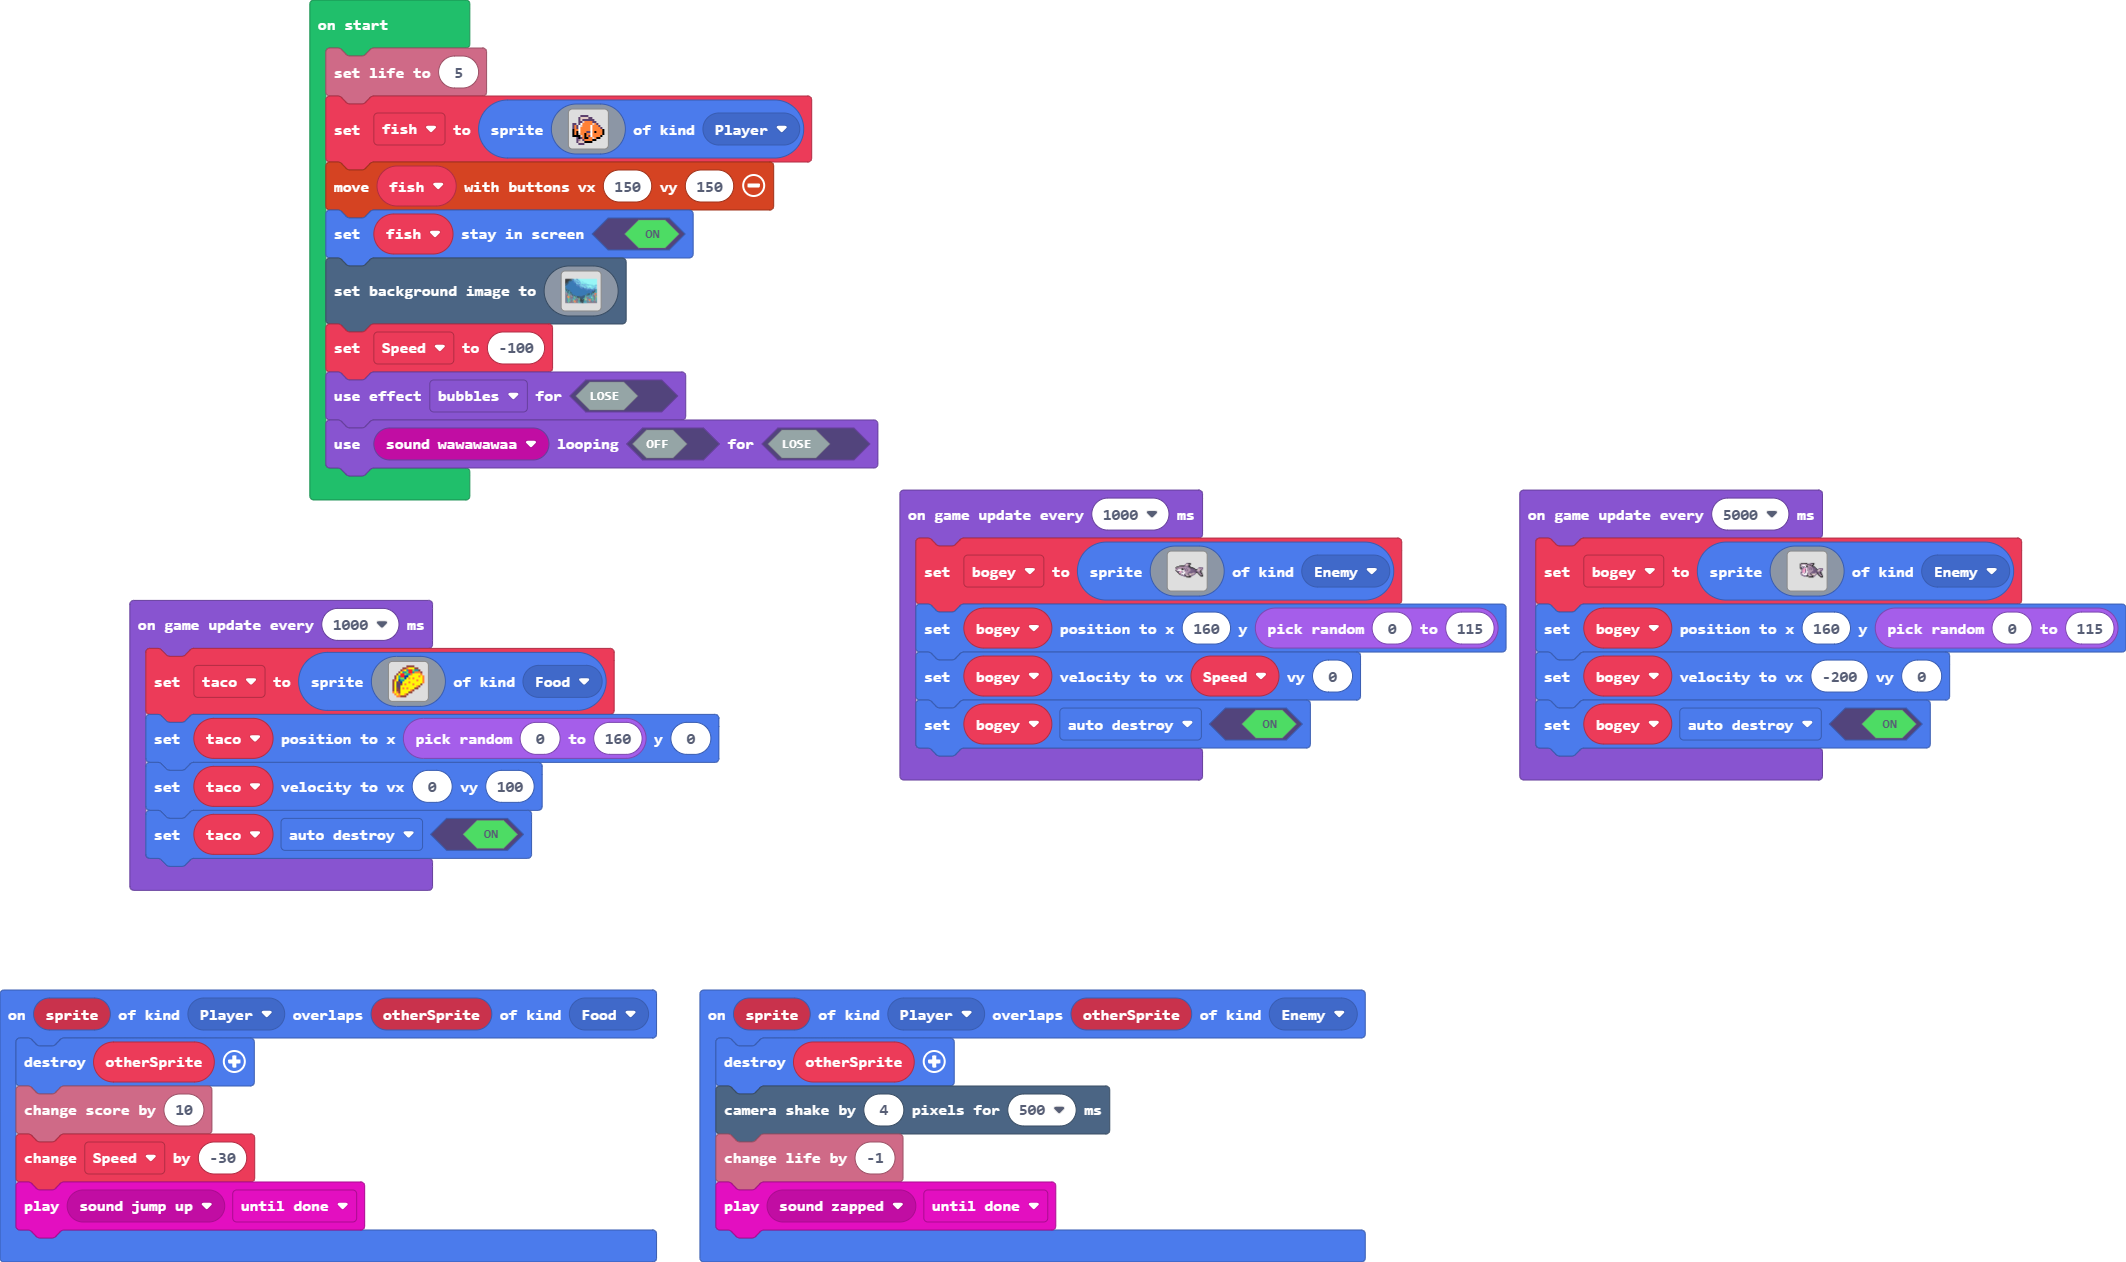
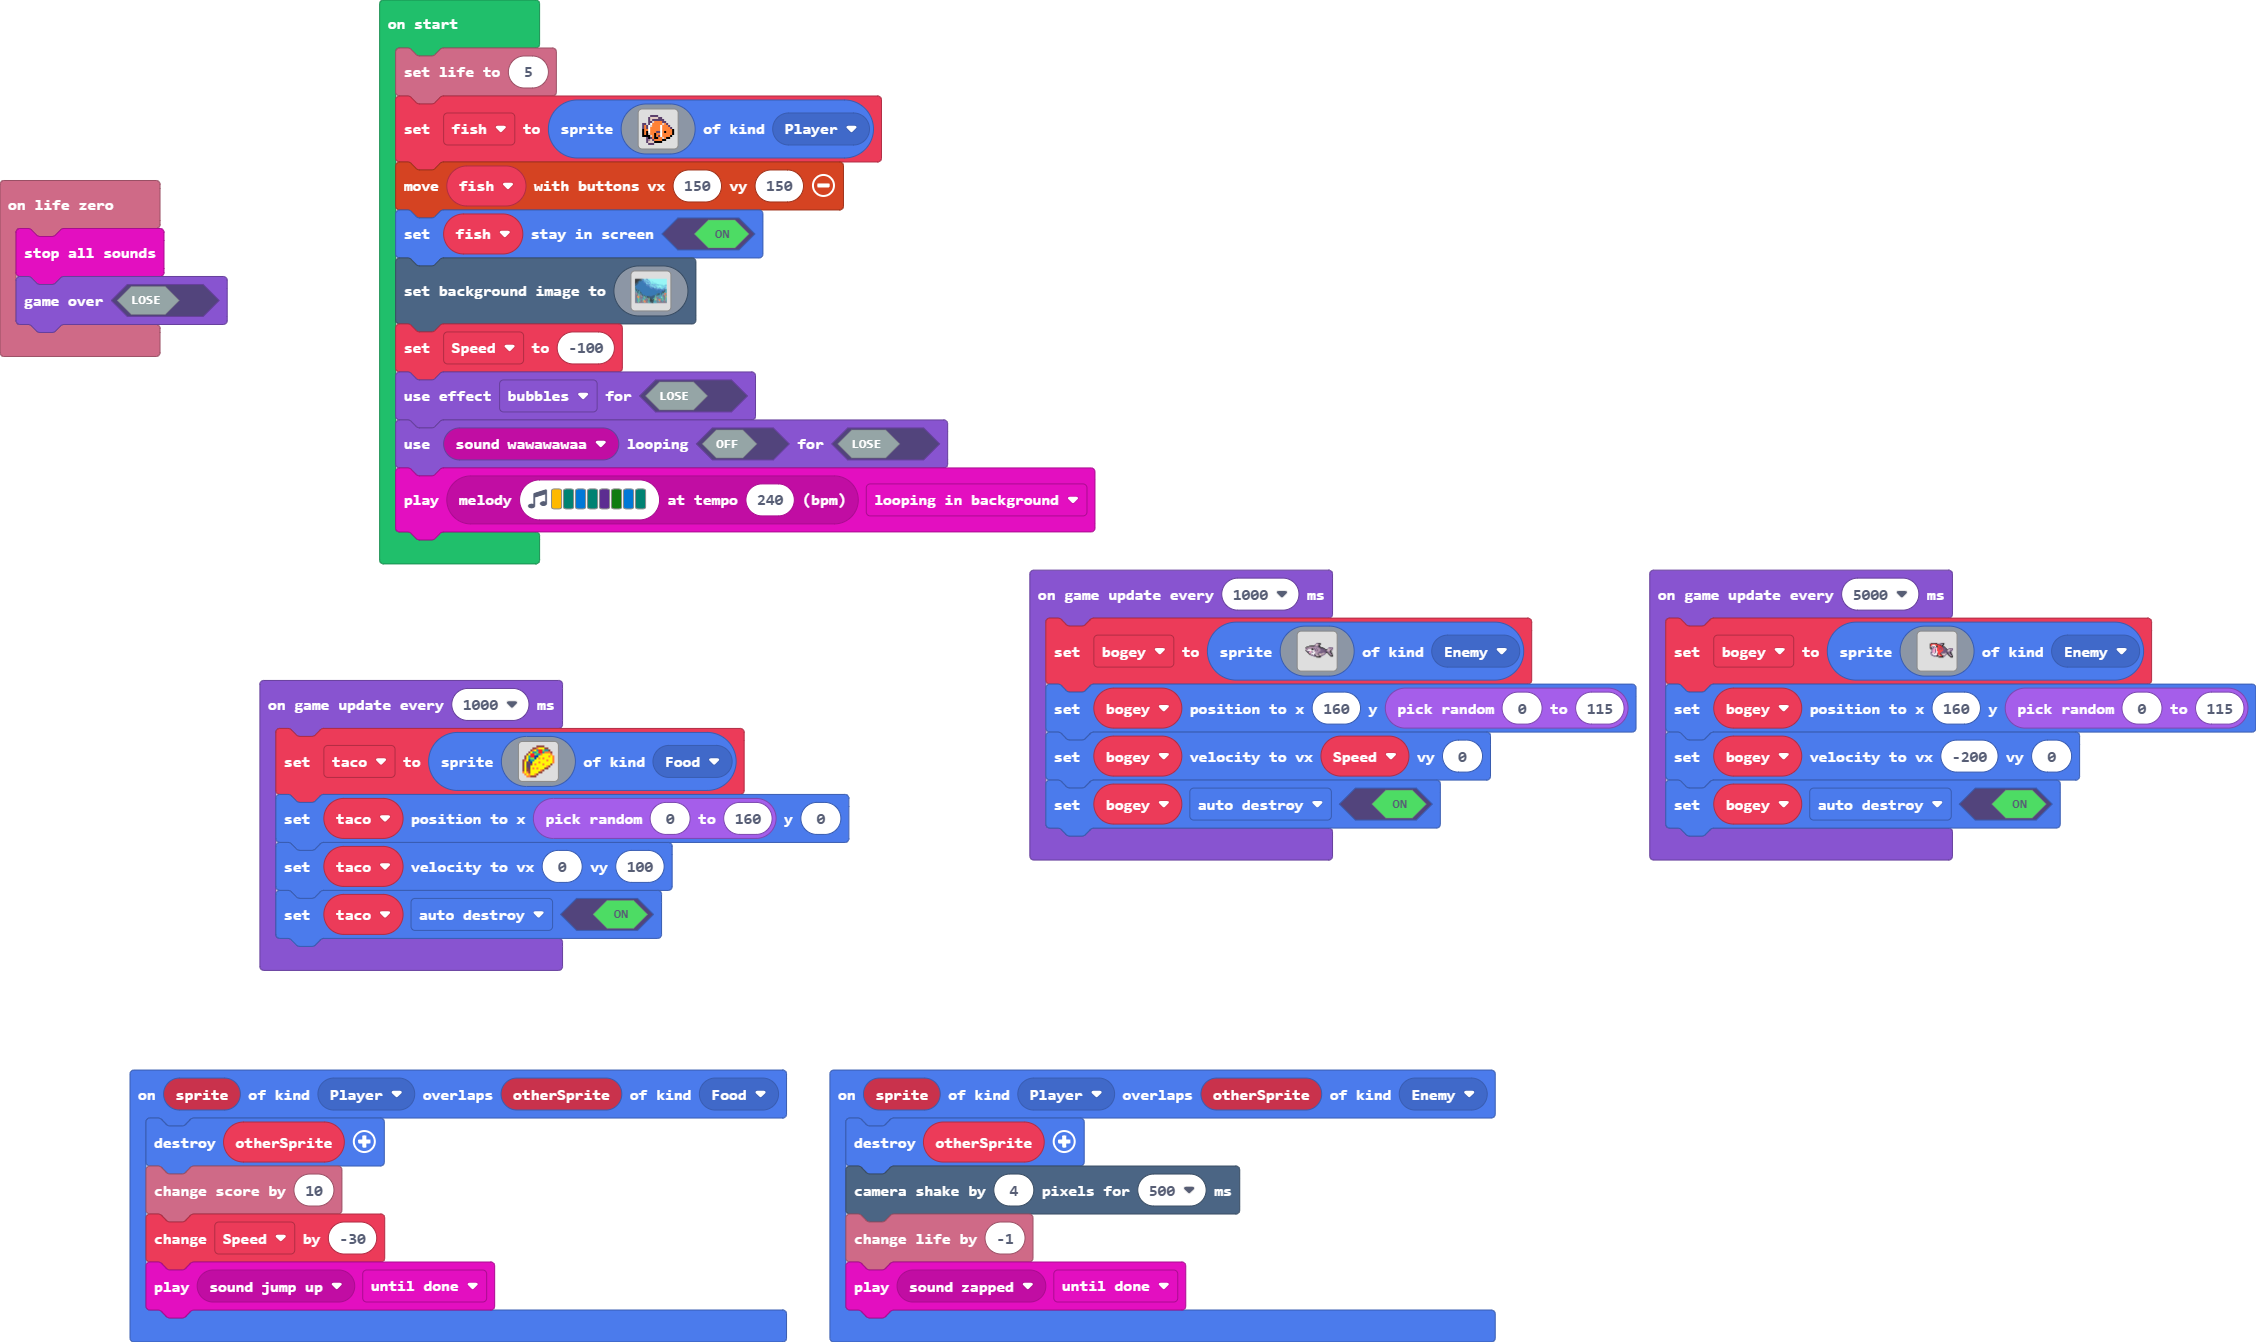
Update main.blocks, main.ts

Changed region(s): [[0.0, 0.0, 1.0, 0.7417], [0.0, 0.7726, 0.683, 1.0], [0.6209, 0.958, 0.683, 1.0]]

diff --git a/main.ts b/main.ts
@@ -1,3 +1,7 @@
+info.onLifeZero(function () {
+    music.stopAllSounds()
+    game.gameOver(false)
+})
 sprites.onOverlap(SpriteKind.Player, SpriteKind.Food, function (sprite, otherSprite) {
     otherSprite.destroy()
     info.changeScoreBy(10)
@@ -158,23 +162,24 @@ scene.setBackgroundImage(img`
 let Speed = -100
 game.setGameOverEffect(false, effects.bubbles)
 game.setGameOverPlayable(false, music.melodyPlayable(music.wawawawaa), false)
+music.play(music.stringPlayable("A F E F D G E F ", 240), music.PlaybackMode.LoopingInBackground)
 game.onUpdateInterval(5000, function () {
     bogey = sprites.create(img`
         ...........fffffff...ccfff..........
-        ..........fbbbbbbbffcbbbbf..........
-        ..........fbb111bbbbbffbf...........
-        ..........fb11111ffbbbbff...........
-        ..........f1cccc1ffbbbbbcff.........
-        ..........ffc1c1c1bbcbcbcccf........
-        ...........fcc3331bbbcbcbcccf..ccccc
-        ............c333c1bbbcbcbccccfcddbbc
-        ............c333c1bbbbbbbcccccddbcc.
-        ............c333c11bbbbbccccccbbcc..
-        ...........cc331c11bbbbccccccfbccf..
-        ...........cc13c11cbbbcccccbbcfccf..
-        ...........c111111cbbbfdddddc.fbbcf.
-        ............cc1111fbdbbfdddc...fbbf.
-        ..............cccfffbdbbfcc.....fbbf
+        ..........f2222222ffcbbbbf..........
+        ..........f2211122222ffbf...........
+        ..........f211111ff2222ff...........
+        ..........f1cccc1ff22222cff.........
+        ..........ffc1c1c122c2c2cccf........
+        ...........fcc3331222c2c2cccf..ccccc
+        ............c333c1222c2c2ccccfcddbbc
+        ............c333c12222222cccccddbcc.
+        ............c333c1122222ccccccbbcc..
+        ...........cc331c112222ccccccfbccf..
+        ...........cc13c11c222cccccbbcfccf..
+        ...........c111111c222fdddddc.fbbcf.
+        ............cc1111f2d22fdddc...fbbf.
+        ..............cccfffbd22fcc.....fbbf
         ....................fffff........fff
         `, SpriteKind.Enemy)
     bogey.setPosition(160, randint(0, 115))
